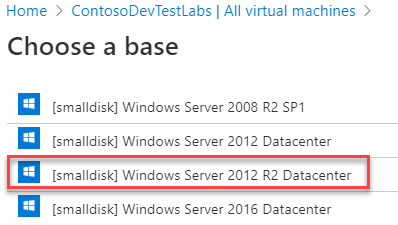
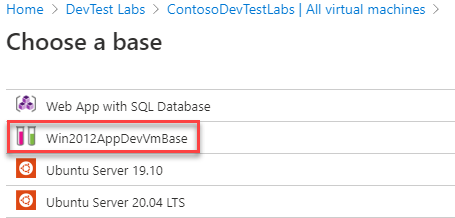
final update to dt-to-labs

Changed region(s): [[0.0, 0.3853, 1.0, 1.0], [0.0, 0.0, 0.9648, 0.0826], [0.0, 0.1376, 0.4523, 0.2477]]

diff --git a/dt-to-labs.md b/dt-to-labs.md
@@ -219,32 +219,59 @@ Contoso needs to create a Windows Virtual Desktop for remote developers.
 With Azure DevTest Labs configured and the Remote Developers workstation up and running, now Contoso focuses on building their VMs for development. To get started, Contoso completes the following steps:
 
 - Create Formulas (reusable bases), for application and database VMs
-- Application and database VMs are built using the Contoso Formulas
+- Provision application and database VMs using the Formulas
 
-1. Application VMs are built using the bases provided by Azure DevTest Labs
+1. Create Formulas (reusable bases), for application and database VMs
 
-- Contoso selects All virtual machines and then Windows Server 2012 R2 Datacenter to match the configuration of their current application.
+ - Contoso opens the the Formulas, clicks +Add, and selects a ***Windows 2012 R2 Datacenter*** base.
 
-    ![Application VM](./media/dt-to-labs/appvm.png)
+    ![Windows 2012R2 Base](./media/dt-to-labs/win2012base.png)
 
- - The VM is configured, with the size and artifacts that are required for this application VM.
+ - Next the size of the VM is configured along with the Artifacts to be installed. In this case, the developers will have access to common development tools such as Visual Studio Code, Git, and Chocolatey.
 
-    ![Configured App VM](./media/dt-to-labs/appvmconfig.png)
+    ![Windows 2012R2 Base Config](./media/dt-to-labs/win2012baseconfig.png)
 
- 
-2. Database VMs are built using the bases provided by Azure DevTest Labs
+ - To create the database vm Formula, Contoso follows the same basic steps this time selecting a SQL Server 2012 image for the base.
 
-- Contoso selects All virtual machines and then Windows Server 2012 R2 Datacenter to match the configuration of their current application.
+     ![SQL 2012R2 Base ](./media/dt-to-labs/sql2012base.png)
 
-    ![Database VM](./media/dt-to-labs/dbvm.png)
+- The Formula is configured, with the size and Artifacts that are required for this database development VM formula.
 
-- The VM is configured, with the size and artifacts that are required for this Database VM, including SQL Server Management Studio.
+    ![SQL 2012R2 Base Config](./media/dt-to-labs/sql2012baseconfig.png)
+
+- The SQL Server Management Studio is added as an Artifact.
 
     ![Configured Database VM](./media/dt-to-labs/dbvmconfig.png)
 
-- Contoso's Developers will now restore their development databases from either backups or using some type of code generation process to build the schema on the VMs. With the SQL Management Studio already installed using the artifacts these are simple tasks that don't require installing any tools.
+ Learn more about using [Formulas](https://docs.microsoft.com/en-us/azure/lab-services/devtest-lab-manage-formulas) with Azure DevTest Labs.
 
-With their Application and Database VMs now running in Azure DevTest Labs, the Remote developers and connect to the VMs using the Azure virtual network as they would normally.
+ - Contoso has now created the Windows based Formulas for their developers to use for their applications an databases.
+
+    ![Configured Database VM](./media/dt-to-labs/contosoformulas.png)
+
+2. Provision application and database VMs using the Formulas
+
+- With the Formulas created, Contoso next selects All virtual machines and then the ***Windows2012AppDevVmBase*** Formula to match the configuration of their current application development VMs.
+
+    ![Application VM](./media/dt-to-labs/appvm.png)
+
+ - The VM is configured, with the size and Artifacts that are required for this application VM.
+
+    ![Configured App VM](./media/dt-to-labs/appvmconfig.png)
+
+- Next, the database VM is provisioned using the ***SQLDbDevVmBase*** Formula to match the configuration of their current database development VMs. 
+
+    ![Database VM](./media/dt-to-labs/dbvm.png)
+
+- The VM is configured, with the size and Artifacts that are required.
+
+    ![Database VM Config](./media/dt-to-labs/dbvmconfig.png)
+
+- With their first VMs created along with their Remote Developer's workstation Contoso's Developers are ready to start writing code in Azure.
+
+![Contoso VMs](./media/dt-to-labs/contosovms.png)
+
+- Contoso can now restore their development databases from either backups or using some type of code generation process to build the schema on the VMs. With the SQL Management Studio already installed using the artifacts these are simple tasks that don't require installing any tools.
  
 ## Clean up after migration
 
